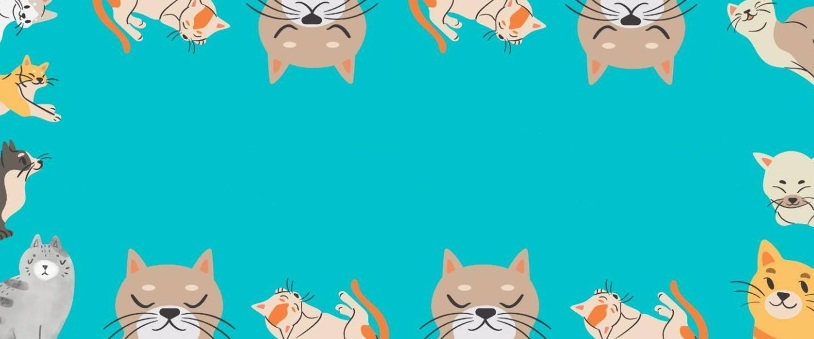
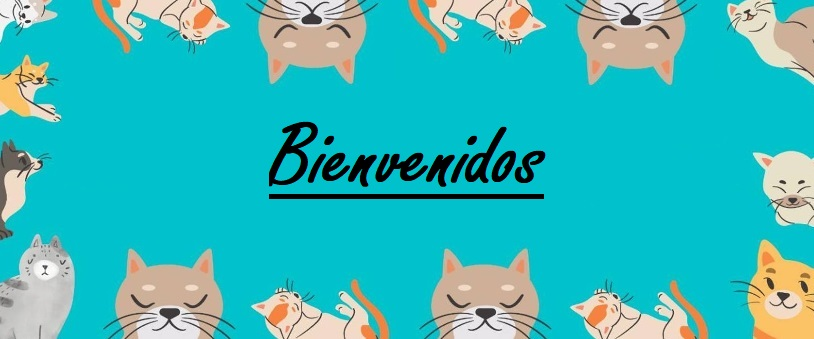
footerfinal

Changed region(s): [[0.3071, 0.354, 0.6757, 0.59]]

diff --git a/index.html b/index.html
@@ -49,7 +49,9 @@
   </header>
 
   <main>
-
+    <div class="bienvenida">
+      <img class="imgbienvenida" src="./img/fondo.jpg" alt="Bienvenido">
+    </div>
     <div>
       <h1>Bienvenido a Los michis de San Miguel</h1>
     </div>
@@ -66,7 +68,16 @@
 
           <div class="divtext">
 
-            <p class="parrafos">Somos un grupo de personas que amamos a los gatos y intentamos cuidado de ellos, trabajamos arduamente para mejorar la calidad de vida de los gatos y educar a la comunidad sobre su cuidado. Creemos que todos los gatos merecen amor, atención y cuidados adecuados. Nuestro equipo de voluntarios comprometidos y amantes de los gatos trabajan incansablemente para proporcionar a nuestros gatos rescatados los cuidados necesarios, desde la atención médica hasta el amor y el cariño que merecen. Si compartes nuestra pasión por los gatos y quieres contribuir a hacer del mundo un lugar mejor para ellos, ¡únete a nosotros! Con tu ayuda, podemos lograr un cambio significativo para ellos en nuestra comunidad.</p>
+            <p class="parrafos">Somos un grupo de personas que amamos a los gatos y
+            intentamos cuidado de ellos, trabajamos arduamente para mejorar la calidad
+            de vida de los gatos y educar a la comunidad sobre su cuidado. Creemos que
+            todos los gatos merecen amor, atención y cuidados adecuados. Nuestro equipo
+            de voluntarios comprometidos y amantes de los gatos trabajan incansablemente
+            para proporcionar a nuestros gatos rescatados los cuidados necesarios,
+            desde la atención médica hasta el amor y el cariño que merecen.
+            Si compartes nuestra pasión por los gatos y quieres contribuir a hacer del
+            mundo un lugar mejor para ellos, ¡únete a nosotros! Con tu ayuda,
+            podemos lograr un cambio significativo para ellos en nuestra comunidad.</p>
       
           </div>
 
@@ -123,7 +134,12 @@
 
         <div class="divtext">
 
-          <p class="parrafos">Creemos que la educación es clave para mejorar la calidad de vida de los gatos. Ofrecemos talleres y charlas sobre el cuidado de gatos, desde la alimentación hasta la salud y el comportamiento. También proporcionamos información sobre la adopción y la esterilización. Todos nuestros consejos son validados por nuestra veterinaria de confianza y de cabecera</p>
+          <p class="parrafos">Creemos que la educación es clave para mejorar la calidad de
+            vida de los gatos. Ofrecemos talleres y charlas sobre el cuidado de gatos,
+            desde la alimentación hasta la salud y el comportamiento.
+            También proporcionamos información sobre la adopción y la esterilización.
+            Todos nuestros consejos son validados por nuestra veterinaria de confianza
+            y de cabecera</p>
 
         </div>
 
@@ -174,7 +190,13 @@
 
         <div class="divtext">
 
-          <p class="parrafos">Dependemos de las donaciones de la comunidad para continuar nuestra labor. Todas las donaciones son bienvenidas y se utilizan para el cuidado y la alimentación de nuestros gatos,así como para la educación y la promoción de la adopción y la esterilización. Tambiem contamos con mercado pago y una paguina donde se detallan todos los gastos y las donaciones para brindar transparencia en nuestra comunidad</p>
+          <p class="parrafos">Dependemos de las donaciones de la comunidad para continuar
+            nuestra labor. Todas las donaciones son bienvenidas y se utilizan para
+            el cuidado y la alimentación de nuestros gatos,así como para la educación
+            y la promoción de la adopción y la esterilización.
+            Tambiem contamos con mercado pago y una paguina donde
+            se detallan todos los gastos y las donaciones para brindar
+            transparencia en nuestra comunidad</p>
 
         </div>
         
@@ -196,7 +218,9 @@
 
         <div class="divtext">
 
-          <p class="parrafos">Si tienes alguna pregunta o comentario sobre nuestro grupo, por favor no dudes en ponerte en contacto con nosotros. Estamos siempre dispuestos a ayudar y escuchar tus sugerencias.</p>
+          <p class="parrafos">Si tienes alguna pregunta o comentario sobre nuestro grupo,
+            por favor no dudes en ponerte en contacto con nosotros.
+            Estamos siempre dispuestos a ayudar y escuchar tus sugerencias.</p>
       
         </div>
       
@@ -222,7 +246,9 @@
 
         <div class="divtext">
 
-          <p class="parrafos">En esta seccion podran ver todo el progreso de nuestras actividades.</p>
+          <p class="parrafos">En esta seccion podran ver todo el progreso de nuestras actividades,
+            y un censo de los mishis que se an podido castrar o desparacitar,
+            de este modo podemos dar fe del uso de las donaciones.</p>
     
         </div>
       
@@ -252,6 +278,7 @@
         </ul>
     </div>
   </footer>  
+
   <script src="https://cdn.jsdelivr.net/npm/bootstrap@5.3.0-alpha3/dist/js/bootstrap.bundle.min.js"
     integrity="sha384-ENjdO4Dr2bkBIFxQpeoTz1HIcje39Wm4jDKdf19U8gI4ddQ3GYNS7NTKfAdVQSZe"
     crossorigin="anonymous"></script>

diff --git a/css/styles.css b/css/styles.css
@@ -18,8 +18,8 @@ nav{
 }
 
 main{
-    margin: 10px;
-    padding: 10px;
+    margin: 5px;
+    padding: 5px;
 }
 
 .liconteiner{
@@ -40,12 +40,17 @@ main{
     color: black;
 }
 
-.imgbienvenida{
-    height: auto;
-    width: 63.5%;
-    border: solid black;
-    margin: 5px;
+.bienvenida{
+    display: flex;
     justify-content: center;
+    align-items: center;
+    height: 50vh;
+    width: 100%;
+}
+.imgbienvenida{
+    max-width: 100%;
+    max-height: 100%;
+    border: solid black;
 }
 
 h1{
@@ -66,6 +71,7 @@ body{
 .bigbox{
     height: 420px;
     width: 100%;
+    border: solid black;
 }
 
 .boxs{
@@ -81,7 +87,6 @@ body{
     text-align: center;
     align-items: center;
     width: 100%;
-    border: solid black;
 }
 
 .divmix{
@@ -90,12 +95,14 @@ body{
 }
 
 .subtitulosleft{
-    height: 25px;
+    height: 30px;
     margin: 5px;
     padding: 5px;
     color: black;
     text-align: left;
     font-size: 30px;
+    justify-content: center;
+    align-items: center;
 }
 
 .subtitulosright{
@@ -111,13 +118,17 @@ body{
     height: 250px;
     border-radius: 25px;
     margin: 25px;
+    border: solid black;
 }
 
 
 .divtext{
     height: 250px;
     margin: 25px;
-    justify-content: center;
+    justify-content: auto;
+    border: solid black;
+    word-wrap: break-word;
+    padding: 5px;
 }
 
 .parrafos{

diff --git a/pages/adopcion.html b/pages/adopcion.html
@@ -4,7 +4,7 @@
     <meta charset="UTF-8">
     <meta http-equiv="X-UA-Compatible" content="IE=edge">
     <meta name="viewport" content="width=device-width, initial-scale=1.0">
-    <title>adopcion</title>
+    <title>Adopcion</title>
 	<link rel="icon" href="../img/patita logo.png">
 	<link href="https://cdn.jsdelivr.net/npm/bootstrap@5.3.0-alpha3/dist/css/bootstrap.min.css" rel="stylesheet" integrity="sha384-KK94CHFLLe+nY2dmCWGMq91rCGa5gtU4mk92HdvYe+M/SXH301p5ILy+dN9+nJOZ" crossorigin="anonymous">
 	<link rel="stylesheet" href="../css/styles.css">
